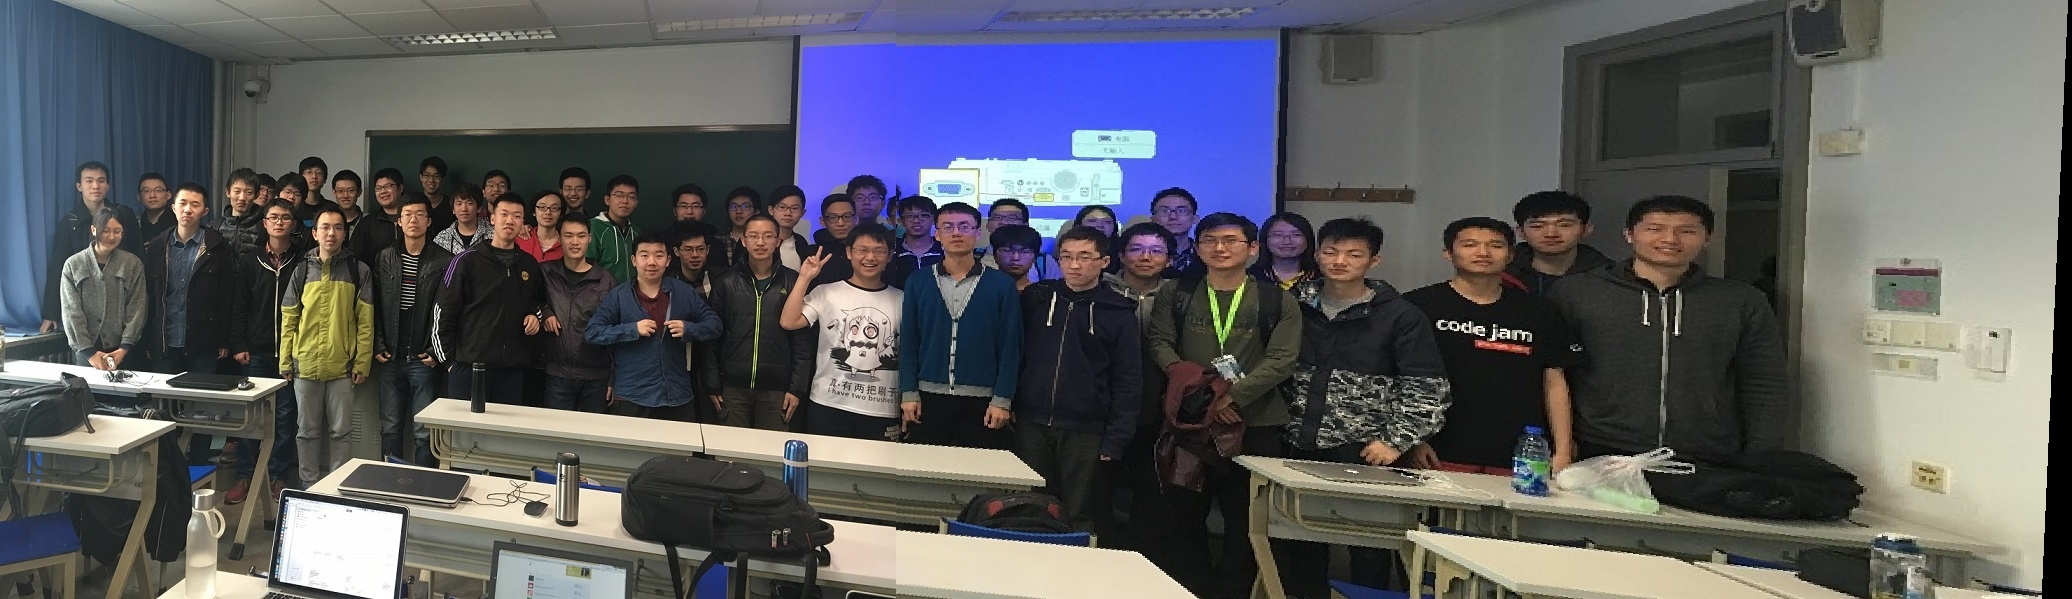
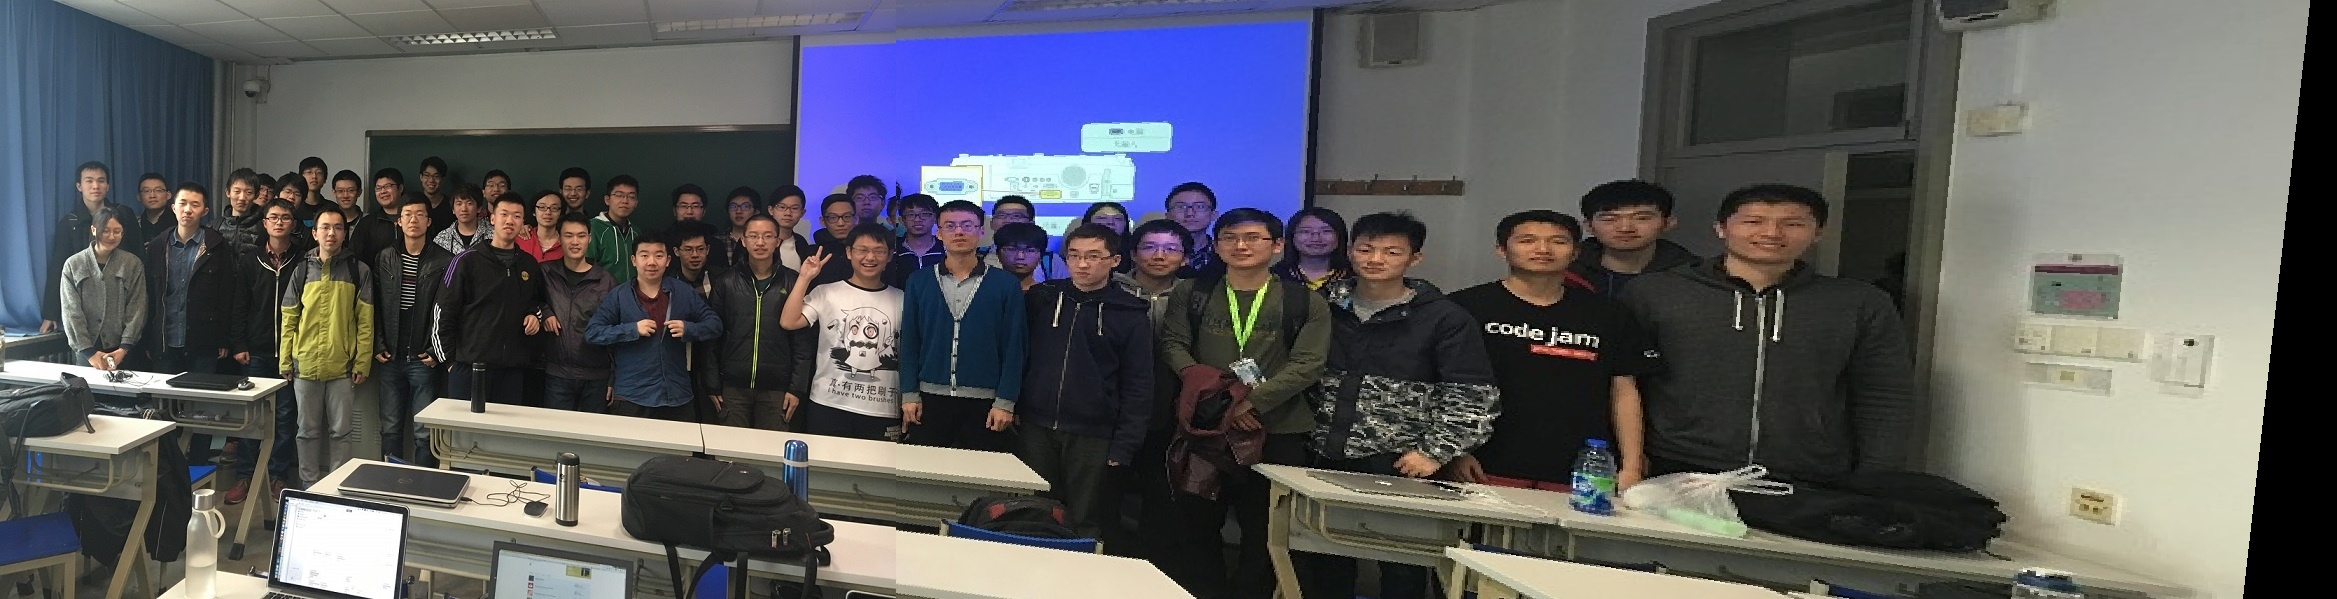
完成了拼接

diff --git a/photoshop.cpp b/photoshop.cpp
@@ -71,7 +71,10 @@ Photoshop::Photoshop(QWidget *parent)
 	connect(ui.pushButtonHistogramEqualize, SIGNAL(clicked()), this ,SLOT(histogramEqualize()));
 	connect(ui.pushButtonHistogramMatch, SIGNAL(clicked()), this, SLOT(histogramMatch()));
 	connect(ui.pushButtonPoisson, SIGNAL(clicked()), this, SLOT(poissonMatting()));
+	connect(ui.pushButtonStitch, SIGNAL(clicked()), this, SLOT(imageStitch()));
 	connect(ui.reset, SIGNAL(clicked()), this, SLOT(reset()));
+
+	_imgSti = new ImageStitch();
 }
 
 Photoshop::~Photoshop()
@@ -314,6 +317,25 @@ void Photoshop::contrastStretch()
 	contrastStretch(ui.spinBoxMinContrast->value(), ui.spinBoxMaxContrast->value());
 }
 
+void Photoshop::imageStitch()
+{
+	QString candidate_name = QFileDialog::getOpenFileName(this, tr("Select Image"), "", tr("Images (*.png *.jpg *.jpeg *.bmp)"));
+
+	if (candidate_name.isEmpty())
+	{
+		return;
+	}
+	else
+	{
+		_candidates.resize(0);
+		_candidates.push_back(cv::imread(candidate_name.toStdString().c_str()));
+		Mat* candidate = &(_candidates[0]);
+		_imgSti->exec(_image_proc, *candidate, _image_show);
+		updateImage();
+		imageOverride();
+	}
+}
+
 void Photoshop::maskMerge(cv::Mat& des, cv::Mat& src, cv::Mat& mask)
 {
 	for (int i = 10; i < des.rows - 10; i++)
@@ -330,7 +352,7 @@ void Photoshop::maskMerge(cv::Mat& des, cv::Mat& src, cv::Mat& mask)
 
 void Photoshop::poissonMatting()
 {
-	QString candidate_name = QFileDialog::getOpenFileName(this, tr("选择图像"), "", tr("Images (*.png *.jpg *.jpeg *.bmp)"));
+	QString candidate_name = QFileDialog::getOpenFileName(this, tr("Select Image"), "", tr("Images (*.png *.jpg *.jpeg *.bmp)"));
 
 	if (candidate_name.isEmpty())
 	{

diff --git a/photoshop.h b/photoshop.h
@@ -7,9 +7,11 @@
 #include <opencv2\imgproc\imgproc.hpp>
 #include <opencv2\features2d\features2d.hpp>
 #include <opencv2\nonfree\nonfree.hpp>
-#include <opencv2/legacy/legacy.hpp>
+#include <opencv2\legacy\legacy.hpp>
 #include <vector>
 #include <Eigen/SparseLU>
+
+#include "ImageStitch.h"
 
 #define NN_SQ_DIST_RATIO_THR 0.49
 
@@ -34,6 +36,7 @@ public slots:
 	void reset();
 	void imageOverride();
 	void contrastStretch();
+	void imageStitch();
 
 private:
 	void maskMerge(cv::Mat& des, cv::Mat& src, cv::Mat& mask);
@@ -52,6 +55,7 @@ private:
 	QString _image_name;
 	cv::Mat _origin_image, _image_proc, _image_show;
 	std::vector<cv::Mat> _candidates;
+	ImageStitch* _imgSti;
 };
 
 #endif // PHOTOSHOP_H

diff --git a/main.cpp b/main.cpp
@@ -6,12 +6,6 @@ using namespace cv;
 
 int main(int argc, char *argv[])
 {
-	Mat img1 = imread("part1.jpeg");
-	Mat img2 = imread("part2.jpeg");
-	Mat res;
-	ImageStitch imgSti;
-	imgSti.exec(img1, img2, res);
-	
 	QApplication a(argc, argv);
 	Photoshop w;
 	w.show();
